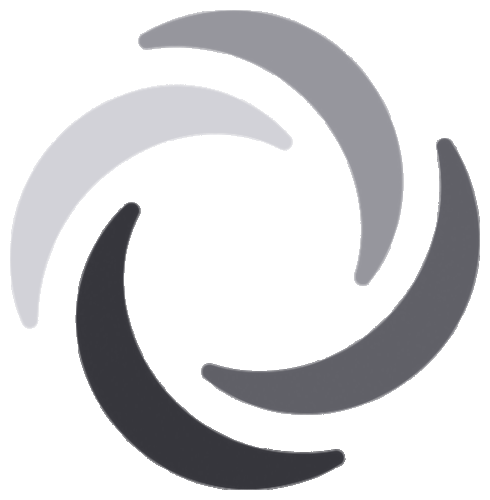
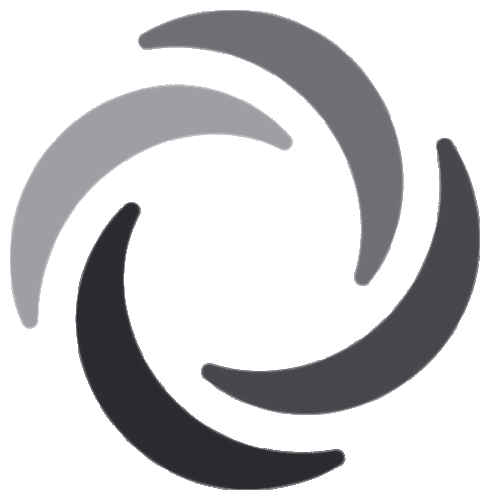
Loading: darken the swirl spinner's blade shades (same stepped design) (build 1196)
Regenerated spin-swirl.png / spin-swirl-lite.png with an overall darker 4-step palette
(each blade still steps darker than the last, just shifted down). Cache bumped so clients
re-fetch. No CSS change.

Claude-Session: https://claude.ai/code/session_01DJXYszTbUWKPcqcX2iEm2T

Changed region(s): [[0.398, 0.27, 0.9796, 0.84], [0.2755, 0.0, 0.8265, 0.57], [0.0, 0.15, 0.6122, 0.66]]

diff --git a/public/index.html b/public/index.html
@@ -15057,7 +15057,7 @@ body.light .ai-working::after{content:"";position:absolute;inset:0;border-radius
    Heuristic: a heartbeat stamps "dirty" every 3s while visible; backgrounding
    or navigating away stamps "clean". A boot that finds a dirty stamp = crash.
 ═══════════════════════════════════════════════ */
-const ATWE_BUILD = '1195'; // keep in step with sw.js CACHE — tells us which build a device runs
+const ATWE_BUILD = '1196'; // keep in step with sw.js CACHE — tells us which build a device runs
 (function crashBeacon() {
   try {
     let prev = null;

diff --git a/public/sw.js b/public/sw.js
@@ -1,4 +1,4 @@
-const CACHE = 'atwe-v1195';
+const CACHE = 'atwe-v1196';
 // The app shell ('/', '/index.html') is cached at runtime by the network-first
 // navigation handler, not precached — precaching '/' on install would request a
 // gated navigation and could consume a one-time site-lock pass.